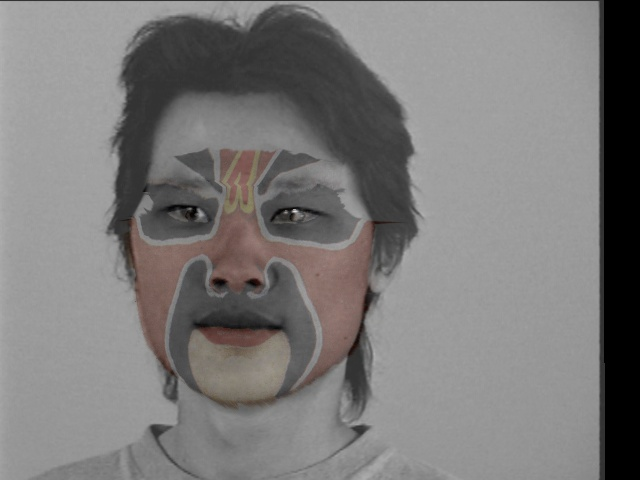
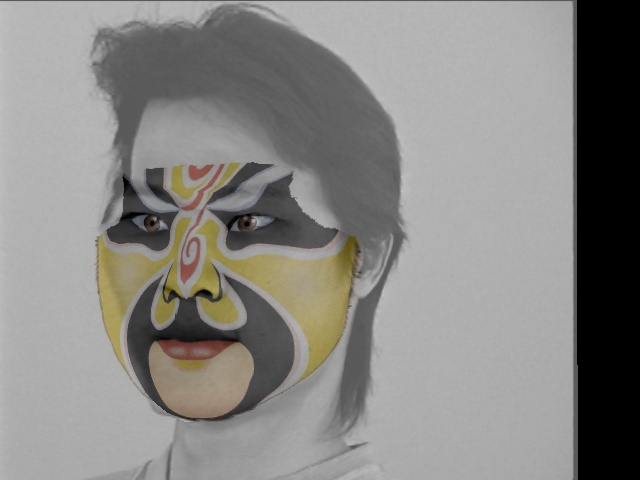
update faceMorph,py output.jpg

diff --git a/faceMorph/faceMorph.py b/faceMorph/faceMorph.py
@@ -7,44 +7,39 @@ import dlib
 import imutils
 
 def append_new_point(size, point):
+    offset = 33
     point.append((0,0))
     point.append((size[1]/2,0))
     point.append((size[1]-1,0))
     point.append((0, size[0]/2))
-    point.append((0, size[0]-16))
-    point.append((size[1]/2, size[0]-16))
+    point.append((0, size[0]-offset))
+    point.append((size[1]/2, size[0]-offset))
     point.append((size[1]-1,size[0]/2))
-    point.append((size[1],size[0]-16))
+    point.append((size[1],size[0]-offset))
     '''
     for i in range(3):
         point.append((0,0))
     '''
 def shape_to_numpy_array(shape, dtype="int"):
-    # initialize the list of (x, y)-coordinates
     coordinates = np.zeros((68, 2), dtype=dtype)
 
-    # loop over the 68 facial landmarks and convert them
-    # to a 2-tuple of (x, y)-coordinates
     for i in range(0, 68):
         coordinates[i] = (shape.part(i).x, shape.part(i).y)
 
-    # return the list of (x, y)-coordinates
     return coordinates
 
 # Read points from text file
 def readPoints(path) :
-    # Create an array of points.
+
     points = [];
-    # Read points
     with open(path) as file :
+
         for line in file :
             x, y = line.split()
             points.append((int(x), int(y)))
 
     return points
 
-# Apply affine transform calculated using srcTri and dstTri to src and
-# output an image of size.
 def applyAffineTransform(src, srcTri, dstTri, size) :
     
     # Given a pair of triangles, find the affine transform.
@@ -56,7 +51,6 @@ def applyAffineTransform(src, srcTri, dstTri, size) :
     return dst
 
 
-# Warps and alpha blends triangular regions from img1 and img2 to img
 def morphTriangle(img1, img2, img, t1, t2, t, alpha) :
 
     # Find bounding rectangle for each triangle
@@ -89,8 +83,6 @@ def morphTriangle(img1, img2, img, t1, t2, t, alpha) :
 
     # Alpha blend rectangular patches
     imgRect = (1.0 - alpha) * warpImage1 + alpha * warpImage2
-    #print(imgRect.shape)
-    #print(img[r[1]:r[1]+r[3], r[0]:r[0]+r[2]].shape)
 
     # Copy triangular region of the rectangular patch to the output image
     img[r[1]:r[1]+r[3], r[0]:r[0]+r[2]] = img[r[1]:r[1]+r[3], r[0]:r[0]+r[2]] * ( 1 - mask ) + imgRect * mask
@@ -102,13 +94,11 @@ if __name__ == '__main__' :
 
     filename1 = sys.argv[1]
     filename2 = sys.argv[2]
-    alpha = 0.2
+    alpha = 0.35
     
     # Read images
     img1 = cv2.imread(filename1);
     img2 = cv2.imread(filename2);
-    #size1 = img1.shape
-    #img2 = imutils.resize(img2, width=size1[1], height=size1[0])
 
     # get points by dlib
     points1 = []
@@ -116,8 +106,6 @@ if __name__ == '__main__' :
 
     rets = detector(gray, 1)
     for (i, ret) in enumerate(rets):
-        # determine the facial landmarks for the face region, then
-        # convert the landmark (x, y)-coordinates to a NumPy array
         shape = predictor(gray, ret)
         shape = shape_to_numpy_array(shape)
         for (x, y) in shape:
@@ -140,7 +128,6 @@ if __name__ == '__main__' :
         points.append((x,y))
 
 
-    # Allocate space for final output
     imgMorph = np.zeros(img1.shape, dtype = img1.dtype)
 
     # Read triangles from tri.txt
@@ -156,16 +143,6 @@ if __name__ == '__main__' :
             t2 = [points2[x], points2[y], points2[z]]
             t = [ points[x], points[y], points[z] ]
 
-            # Morph one triangle at a time.
             morphTriangle(img1, img2, imgMorph, t1, t2, t, alpha)
-    '''
-    tmp_size = imgMorph.shape
-    for i in range(tmp_size[0]):
-        for j in range(tmp_size[1]):
-            if imgMorph[i][j][0] == 0 and imgMorph[i][j][1] == 0 and imgMorph[i][j][2] == 0:
-                imgMorph[i][j] = img1[i][j]
-    '''
-    #Display Result
-    #cv2.imshow("Morphed Face", np.uint8(imgMorph))
+
     cv2.imwrite("output.jpg", np.uint8(imgMorph))
-    #cv2.waitKey(50000)
